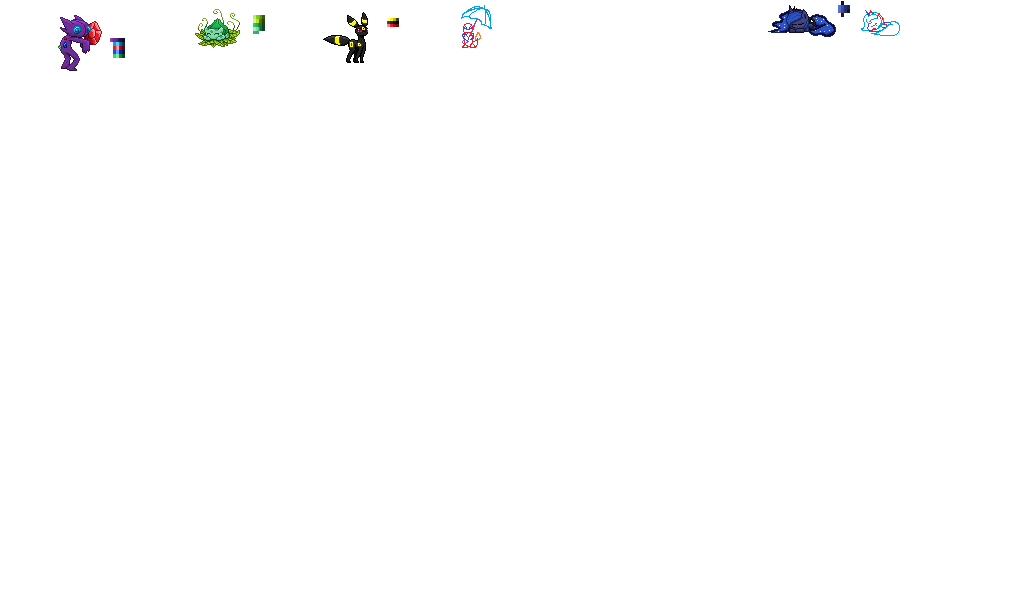
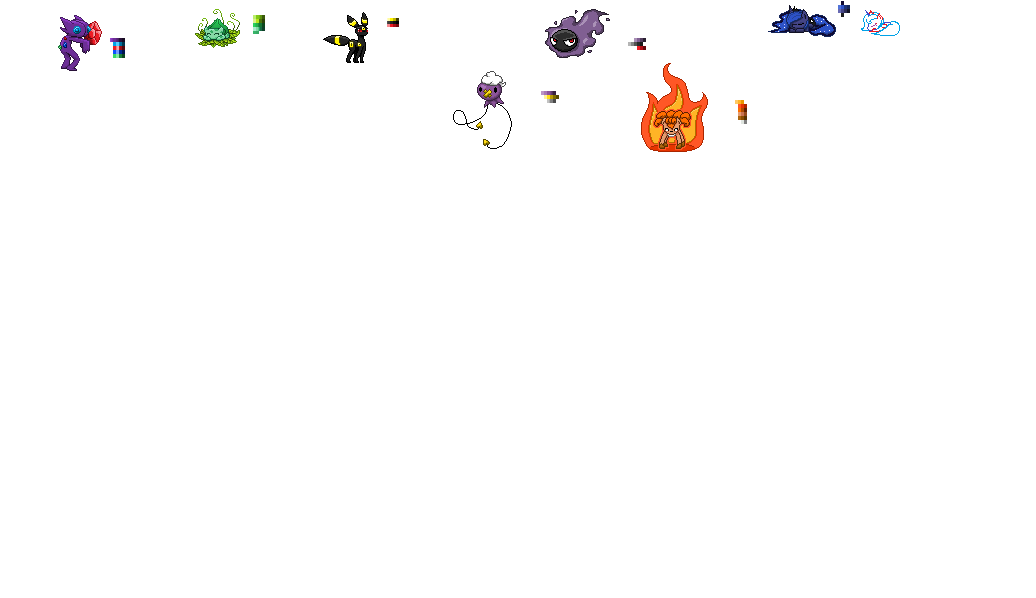
VALMIS

diff --git a/Pixelpeli/Pixelpeli/Pixelpeli/Pixelpeli.cs b/Pixelpeli/Pixelpeli/Pixelpeli/Pixelpeli.cs
@@ -21,6 +21,7 @@ public class Pixelpeli : PhysicsGame
     Image Taso2 = LoadImage("Taso2");
     Image Sableye = LoadImage("Sableye");
     Image Luna = LoadImage("luna");
+    Image pallo = LoadImage("pallo");
     public Image Tausta1 { get; set; }
     PlatformCharacter pelaaja;
 
@@ -138,6 +139,7 @@ public class Pixelpeli : PhysicsGame
         ruudut.SetTileMethod('+', LuoSuperTahti);
         ruudut.SetTileMethod('S', Luosableye);
         ruudut.SetTileMethod('L', Luoluna);
+        ruudut.SetTileMethod('P', Luoilmapallo);
         ruudut.Execute(19, 19);
 
 
@@ -228,7 +230,7 @@ public class Pixelpeli : PhysicsGame
     }
     void Luoluna(Vector paikka, double leveys, double korkeus)
     {
-        PhysicsObject luna = new PhysicsObject(25, 18);
+        PhysicsObject luna = new PhysicsObject(32, 18);
         luna.IgnoresCollisionResponse = false;
         luna.Position = paikka;
         luna.Image = Luna;
@@ -236,6 +238,17 @@ public class Pixelpeli : PhysicsGame
         luna.CanRotate = false;
         luna.Tag = "Luna";
         Add(luna, 1);
+    }
+    void Luoilmapallo(Vector paikka, double leveys, double korkeus)
+    {
+        PhysicsObject ilmapallo = new PhysicsObject(11, 14);
+        ilmapallo.IgnoresCollisionResponse = false;
+        ilmapallo.Position = paikka;
+        ilmapallo.Image = pallo;
+        ilmapallo.IgnoresGravity = false;
+        ilmapallo.CanRotate = false;
+        ilmapallo.Tag = "ilmapallo";
+        Add(ilmapallo, 1);
     }
     void LisaaNappaimet()
     {
